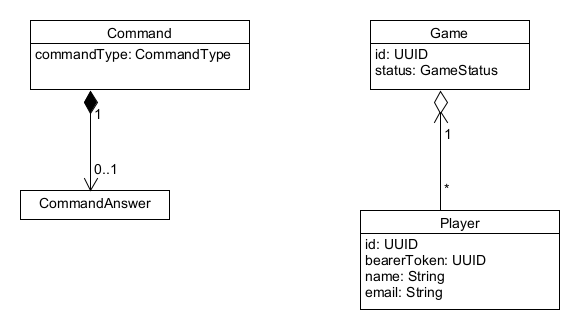
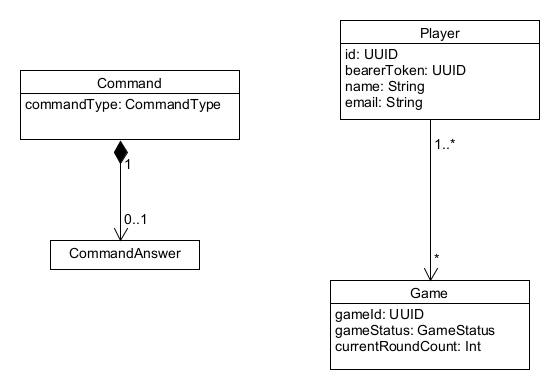
GameAppService method synchronizeGameState() properly implemented & tested ... progressgit add .! ... even if in snail pace ...

Changed region(s): [[0.5768, 0.0303, 0.9714, 0.9697], [0.0304, 0.0606, 0.4554, 0.697], [0.3339, 0.6061, 0.3643, 0.6364]]

diff --git a/src/test/java/thkoeln/dungeon/game/GameInitializationTest.java b/src/test/java/thkoeln/dungeon/game/GameInitializationTest.java
@@ -21,7 +21,6 @@ import thkoeln.dungeon.game.domain.GameRepository;
 import thkoeln.dungeon.restadapter.GameDto;
 
 import java.net.URI;
-import java.net.URISyntaxException;
 import java.util.List;
 import java.util.UUID;
 
@@ -37,23 +36,22 @@ import static thkoeln.dungeon.game.domain.GameStatus.*;
 @SpringBootTest( classes = DungeonPlayerConfiguration.class )
 //@ContextConfiguration( classes = DungeonPlayerConfiguration.class )
 public class GameInitializationTest {
-    private static final UUID GAME_ID_CREATED = UUID.randomUUID();
-    private GameDto gameDtoCreated = new GameDto( GAME_ID_CREATED, CREATED, 0 );
+    private static final UUID GAME_ID_0 = UUID.randomUUID();
+    private GameDto gameDto0 = new GameDto(GAME_ID_0, CREATED, 0 );
 
-    private static final UUID GAME_ID_IN_PREPARATION = UUID.randomUUID();
-    private GameDto gameDtoInPreparation = new GameDto( GAME_ID_IN_PREPARATION, IN_PREPARATION, 0 );
+    private static final UUID GAME_ID_1 = UUID.randomUUID();
+    private static final Integer GAME_ROW_COUNT_1 = 42;
+    private GameDto gameDto1 = new GameDto(GAME_ID_1, GAME_RUNNING, GAME_ROW_COUNT_1);
 
-    private static final UUID GAME_ID_RUNNING = UUID.randomUUID();
-    private static final Integer GAME_ROW_COUNT_RUNNING = 42;
-    private GameDto gameDtoRunning = new GameDto( GAME_ID_RUNNING, GAME_RUNNING, GAME_ROW_COUNT_RUNNING );
+    private static final UUID GAME_ID_2 = UUID.randomUUID();
+    private static final Integer GAME_ROW_COUNT_2 = 200;
+    private GameDto gameDto2 = new GameDto(GAME_ID_2, GAME_FINISHED, GAME_ROW_COUNT_2);
 
-    private static final UUID GAME_ID_FINISHED = UUID.randomUUID();
-    private static final Integer GAME_ROW_COUNT_FINISHED = 200;
-    private GameDto gameDtoFinished = new GameDto( GAME_ID_FINISHED, GAME_FINISHED, GAME_ROW_COUNT_FINISHED );
+    private static final UUID GAME_ID_3 = UUID.randomUUID();
+    private static final Integer GAME_ROW_COUNT_3 = 0;
+    private GameDto gameDto3 = new GameDto(GAME_ID_3, CREATED, GAME_ROW_COUNT_3);
 
-    private static final UUID GAME_ID_ORPHANED = UUID.randomUUID();
-    private static final Integer GAME_ROW_COUNT_ORPHANED = 250;
-    private GameDto gameDtoOrphaned = new GameDto( GAME_ID_ORPHANED, GAME_FINISHED, GAME_ROW_COUNT_ORPHANED );
+    private GameDto[] allRemoteGames;
 
     @Value("${GAME_SERVICE}")
     private String gameServiceURIString;
@@ -76,29 +74,80 @@ public class GameInitializationTest {
         gameRepository.deleteAll();
         gameServiceGamesURI = new URI( gameServiceURIString + "/games" );
         mockServer = MockRestServiceServer.createServer(restTemplate);
+
+        allRemoteGames = new GameDto[3];
+        allRemoteGames[0] = gameDto0;
+        allRemoteGames[1] = gameDto1;
+        allRemoteGames[2] = gameDto2;
     }
 
-    private void mockCallToGameService_initialCall() throws Exception {
-        GameDto[] allRemoteGames = new GameDto[3];
-        allRemoteGames[0] = gameDtoCreated;
-        allRemoteGames[1] = gameDtoRunning;
-        allRemoteGames[2] = gameDtoFinished;
-
-        mockServer.expect( ExpectedCount.once(),
-                requestTo( gameServiceGamesURI ))
-                .andExpect( method( GET ))
-                .andRespond( withStatus( HttpStatus.OK )
-                                .contentType( MediaType.APPLICATION_JSON )
-                                .body( mapper.writeValueAsString(allRemoteGames) ) );
-    }
 
     @Test
     public void properlySynchronizedGameState_afterFirstCall() throws Exception {
+        // given
         mockCallToGameService_initialCall();
+
+        // when
         gameApplicationService.synchronizeGameState();
+
+        // then
         mockServer.verify();
         List<Game> games = gameRepository.findAll();
         assertEquals( 3, games.size() );
+        games = gameApplicationService.retrieveActiveGames();
+        assertEquals( 1, games.size() );
+        assertEquals( gameDto1.getGameId(), games.get( 0 ).getGameId() );
     }
+
+
+    @Test
+    public void properlySynchronizedGameState_afterSecondCall() throws Exception {
+        // given
+        mockCallToGameService_initialCall();
+        gameApplicationService.synchronizeGameState();
+        mockCallToGameService_secondCall();
+
+        // when
+        gameApplicationService.synchronizeGameState();
+
+        // then
+        mockServer.verify();
+        List<Game> games = gameRepository.findAll();
+        assertEquals( 4, games.size() );
+        games = gameApplicationService.retrieveActiveGames();
+        assertEquals( 1, games.size() );
+        assertEquals(gameDto0.getGameId(), games.get( 0 ).getGameId() );
+        Game game = gameRepository.findById(GAME_ID_1).get();
+        assertEquals( GAME_FINISHED, game.getGameStatus() );
+        game = gameRepository.findById(GAME_ID_2).get();
+        assertEquals( ORPHANED, game.getGameStatus() );
+        game = gameRepository.findById(GAME_ID_3).get();
+        assertEquals( CREATED, game.getGameStatus() );
+    }
+
+
+    private void mockCallToGameService_initialCall() throws Exception {
+        mockServer.expect( ExpectedCount.once(),
+                        requestTo( gameServiceGamesURI ))
+                .andExpect( method( GET ))
+                .andRespond( withStatus( HttpStatus.OK )
+                        .contentType( MediaType.APPLICATION_JSON )
+                        .body( mapper.writeValueAsString(allRemoteGames) ) );
+    }
+
+    private void mockCallToGameService_secondCall() throws Exception {
+        allRemoteGames[0].setGameStatus( GAME_RUNNING );
+        allRemoteGames[1].setGameStatus( GAME_FINISHED );
+        allRemoteGames[2] = gameDto3;
+
+        mockServer = MockRestServiceServer.createServer(restTemplate);
+        mockServer.expect( ExpectedCount.once(),
+                        requestTo( gameServiceGamesURI ))
+                .andExpect( method( GET ))
+                .andRespond( withStatus( HttpStatus.OK )
+                        .contentType( MediaType.APPLICATION_JSON )
+                        .body( mapper.writeValueAsString(allRemoteGames) ) );
+    }
+
 
 }

diff --git a/src/main/java/thkoeln/dungeon/game/application/GameApplicationService.java b/src/main/java/thkoeln/dungeon/game/application/GameApplicationService.java
@@ -4,20 +4,16 @@ import org.modelmapper.ModelMapper;
 import org.slf4j.Logger;
 import org.slf4j.LoggerFactory;
 import org.springframework.beans.factory.annotation.Autowired;
-import org.springframework.stereotype.Component;
-import thkoeln.dungeon.DungeonPlayerException;
-import thkoeln.dungeon.restadapter.GameDto;
-import thkoeln.dungeon.restadapter.GameServiceRESTAdapter;
+import org.springframework.stereotype.Service;
 import thkoeln.dungeon.game.domain.Game;
 import thkoeln.dungeon.game.domain.GameRepository;
 import thkoeln.dungeon.game.domain.GameStatus;
+import thkoeln.dungeon.restadapter.GameDto;
+import thkoeln.dungeon.restadapter.GameServiceRESTAdapter;
 
-import java.util.Arrays;
-import java.util.Iterator;
-import java.util.List;
-import java.util.UUID;
+import java.util.*;
 
-@Component
+@Service
 public class GameApplicationService {
     private GameRepository gameRepository;
     private GameServiceRESTAdapter gameServiceRESTAdapter;
@@ -32,38 +28,55 @@ public class GameApplicationService {
     }
 
 
-    public Game retrieveActiveGame() {
-        List<Game> games = gameRepository.findAllByGameStatusBetween( GameStatus.CREATED, GameStatus.GAME_RUNNING );
-        if ( games.size() > 1 ) {
-            throw new DungeonPlayerException( "More than one game - consider resetting player!" );
-        }
-        else if (games.size() == 0 ) {
-            logger.warn( "No active game!" );
-            return null;
-        }
-        else {
-            return games.get( 0 );
-        }
+    public List<Game> retrieveActiveGames() {
+        return gameRepository.findAllByGameStatusEquals( GameStatus.GAME_RUNNING );
     }
 
 
     /**
-     * Makes sure that our own game state is consistent with what GameService says
+     * Makes sure that our own game state is consistent with what GameService says.
+     * We take a very simple approach here. We, as a Player, don't manage any game
+     * state - we just assume that GameService does a proper job. So we just store
+     * the incoming games. Only in the case that a game should suddenly "disappear",
+     * we keep it and mark it as ORPHANED - there may be local references to it.
      */
     public void synchronizeGameState() {
         GameDto[] gameDtos = gameServiceRESTAdapter.fetchCurrentGameState();
 
-        // We take a very simple approach here. We, as a Player, don't manage any game
-        // state - we just assume that GameService does a proper job. So we just store
-        // the incoming games.
-        Iterator<GameDto> iterator = Arrays.stream(gameDtos).iterator();
-        while ( iterator.hasNext() ) {
-            GameDto gameDto = iterator.next();
-            Game game = modelMapper.map(gameDto, Game.class);
-            gameRepository.save(game);
+        // We need to treat the new games (those we haven't stored yet) and those we
+        // already have in a different way. Therefore let's split the list.
+        List<GameDto> unknownGameDtos = new ArrayList<>();
+        List<GameDto> knownGameDtos = new ArrayList<>();
+        for ( GameDto gameDto: Arrays.asList( gameDtos ) ) {
+            if ( gameRepository.existsById( gameDto.getGameId() ) ) knownGameDtos.add( gameDto );
+            else unknownGameDtos.add( gameDto );
         }
-        logger.info( "Retrieved new game state" );
+
+        List<Game> storedGames = gameRepository.findAll();
+        for ( Game game: storedGames ) {
+            Optional<GameDto> foundDtoOptional = knownGameDtos.stream()
+                    .filter( dto -> game.getGameId().equals( dto.getGameId() )).findAny();
+            if ( foundDtoOptional.isPresent() ) {
+                Game updatedGame = modelMapper.map( foundDtoOptional.get(), Game.class );
+                gameRepository.save( updatedGame );
+                logger.info( "Updated game " + updatedGame );
+            }
+            else {
+                game.setGameStatus( GameStatus.ORPHANED );
+                gameRepository.save( game );
+                logger.warn( "Marked game " + game + " as ORPHANED!" );
+            }
+        }
+        for ( GameDto gameDto: unknownGameDtos ) {
+            Game game = modelMapper.map( gameDto, Game.class );
+            gameRepository.save( game );
+            logger.info( "Received game " + game + " for the first time");
+        }
+        logger.info( "Retrieval of new game state finished" );
     }
+
+
+
 
     /**
      * To be called by event consumer listening to GameService event

diff --git a/src/main/java/thkoeln/dungeon/player/application/PlayerApplicationService.java b/src/main/java/thkoeln/dungeon/player/application/PlayerApplicationService.java
@@ -49,9 +49,9 @@ public class PlayerApplicationService {
         this.gameServiceRESTAdapter = gameServiceRESTAdapter;
     }
 
-
+/*
     public List<Player> retrieveActivePlayers() {
-        Game activeGame = gameApplicationService.retrieveActiveGame();
+        Game activeGame = gameApplicationService.retrieveActiveGames();
         if ( activeGame == null ) {
             logger.warn( "Cannot retrieve players - no active game!" );
             return new ArrayList<Player>();
@@ -60,15 +60,17 @@ public class PlayerApplicationService {
         return activePlayers;
     }
 
-
+*/
     public void registerPlayers() {
         logger.info( "Registering players ..." );
+
+        /*
         List<Player> activPlayers = retrieveActivePlayers();
         if ( activPlayers.size() > 0 ) {
             logger.warn( "There are already active players - no need to redo the registration." );
             return;
         }
-        Game activeGame = gameApplicationService.retrieveActiveGame();
+        Game activeGame = gameApplicationService.retrieveActiveGames();
         if ( activeGame == null ) {
             logger.warn( "Cannot register players - no active game!" );
             return;
@@ -83,6 +85,8 @@ public class PlayerApplicationService {
             playerRepository.save( registeredPlayer );
             logger.info( "Registration done for player no. " + (iPlayer+1) + ": " + registeredPlayer );
         }
+
+         */
     }
 
 
@@ -96,7 +100,6 @@ public class PlayerApplicationService {
         logger.info( "transactionId " + transactionId );
         logger.info( "Ending round " + roundNumber );
     }
-
 
 
 

diff --git a/src/main/java/thkoeln/dungeon/restadapter/GameServiceRESTAdapter.java b/src/main/java/thkoeln/dungeon/restadapter/GameServiceRESTAdapter.java
@@ -7,6 +7,7 @@ import org.springframework.beans.factory.annotation.Autowired;
 import org.springframework.beans.factory.annotation.Value;
 import org.springframework.stereotype.Component;
 import org.springframework.web.client.RestTemplate;
+import thkoeln.dungeon.DungeonPlayerException;
 
 import java.util.Arrays;
 import java.util.Iterator;
@@ -27,6 +28,7 @@ public class GameServiceRESTAdapter {
 
     public GameDto[] fetchCurrentGameState() {
         GameDto[] gameDtos = restTemplate.getForObject( gameServiceUrlString + "/games", GameDto[].class );
+        if ( gameDtos == null ) throw new RestAdapterException( "Received a null GameDto array - wtf ...?" );
         logger.info( "Got " + gameDtos.length + " game(s) via REST ...");
         Iterator<GameDto> iterator = Arrays.stream(gameDtos).iterator();
         while ( iterator.hasNext() ) { logger.info( "... " + iterator.next() ); }

diff --git a/src/main/java/thkoeln/dungeon/game/domain/Game.java b/src/main/java/thkoeln/dungeon/game/domain/Game.java
@@ -8,6 +8,7 @@ import lombok.ToString;
 
 import javax.persistence.Entity;
 import javax.persistence.Id;
+import java.util.Objects;
 import java.util.UUID;
 
 @Entity
@@ -21,4 +22,17 @@ public class Game {
     private UUID gameId;
     private GameStatus gameStatus;
     private Integer currentRoundCount;
+
+    @Override
+    public boolean equals(Object o) {
+        if (this == o) return true;
+        if (o == null || getClass() != o.getClass()) return false;
+        Game game = (Game) o;
+        return gameId.equals(game.gameId);
+    }
+
+    @Override
+    public int hashCode() {
+        return Objects.hash(gameId);
+    }
 }

diff --git a/src/main/java/thkoeln/dungeon/restadapter/RestAdapterException.java b/src/main/java/thkoeln/dungeon/restadapter/RestAdapterException.java
@@ -1,0 +1,9 @@
+package thkoeln.dungeon.restadapter;
+
+import thkoeln.dungeon.DungeonPlayerException;
+
+public class RestAdapterException extends DungeonPlayerException {
+    public RestAdapterException(String message ) {
+        super( message );
+    }
+}
